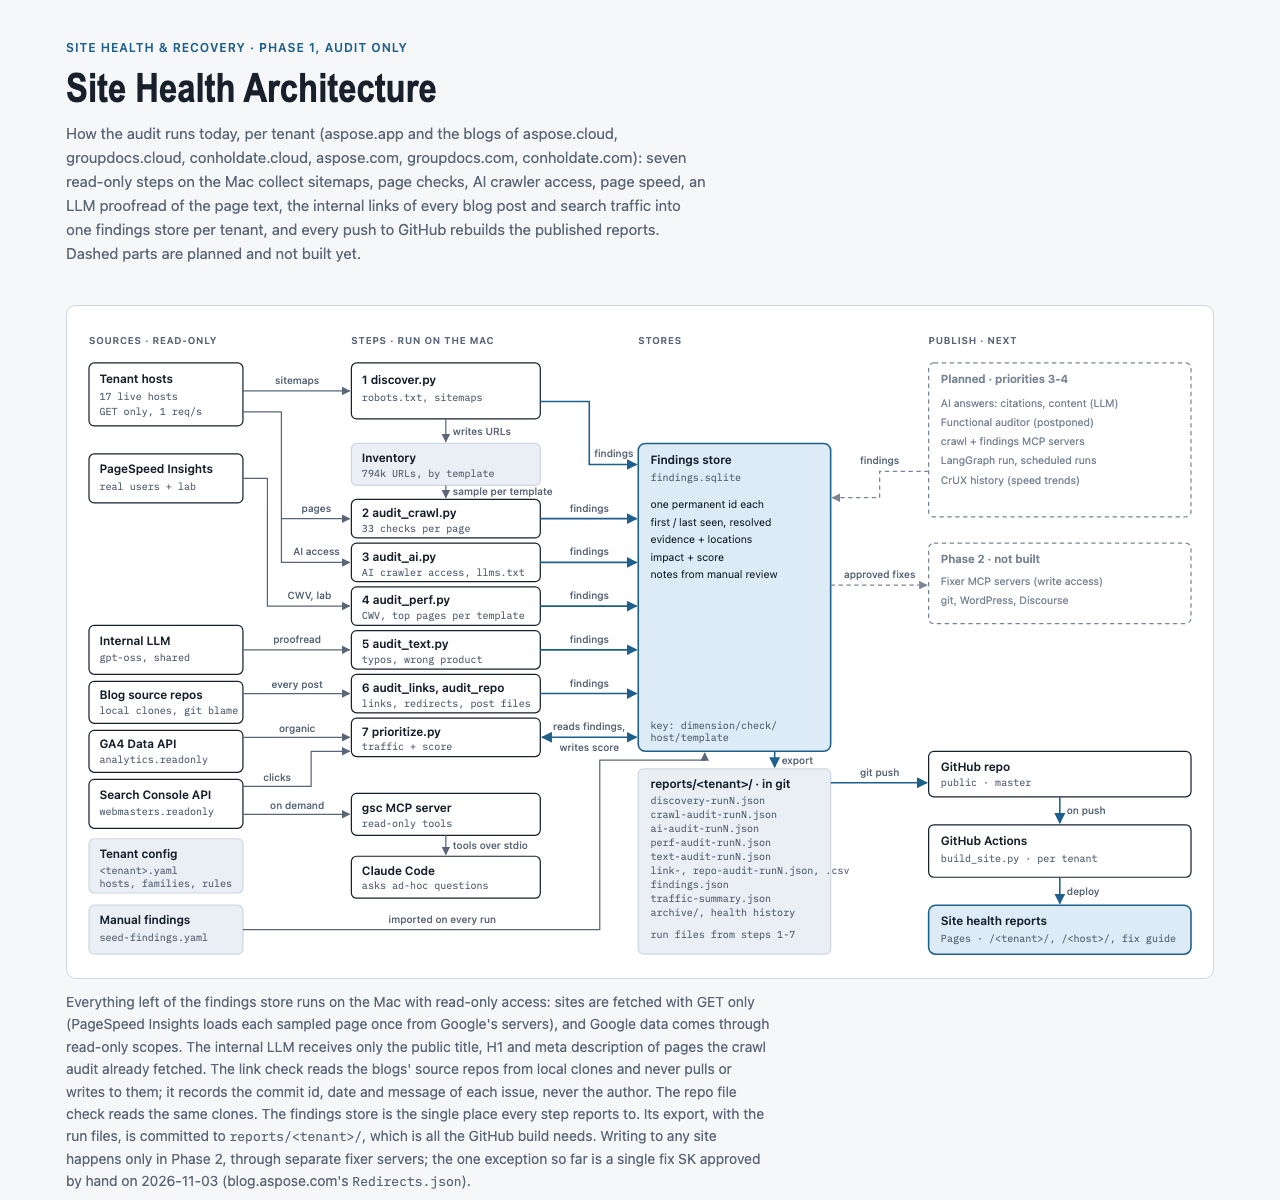
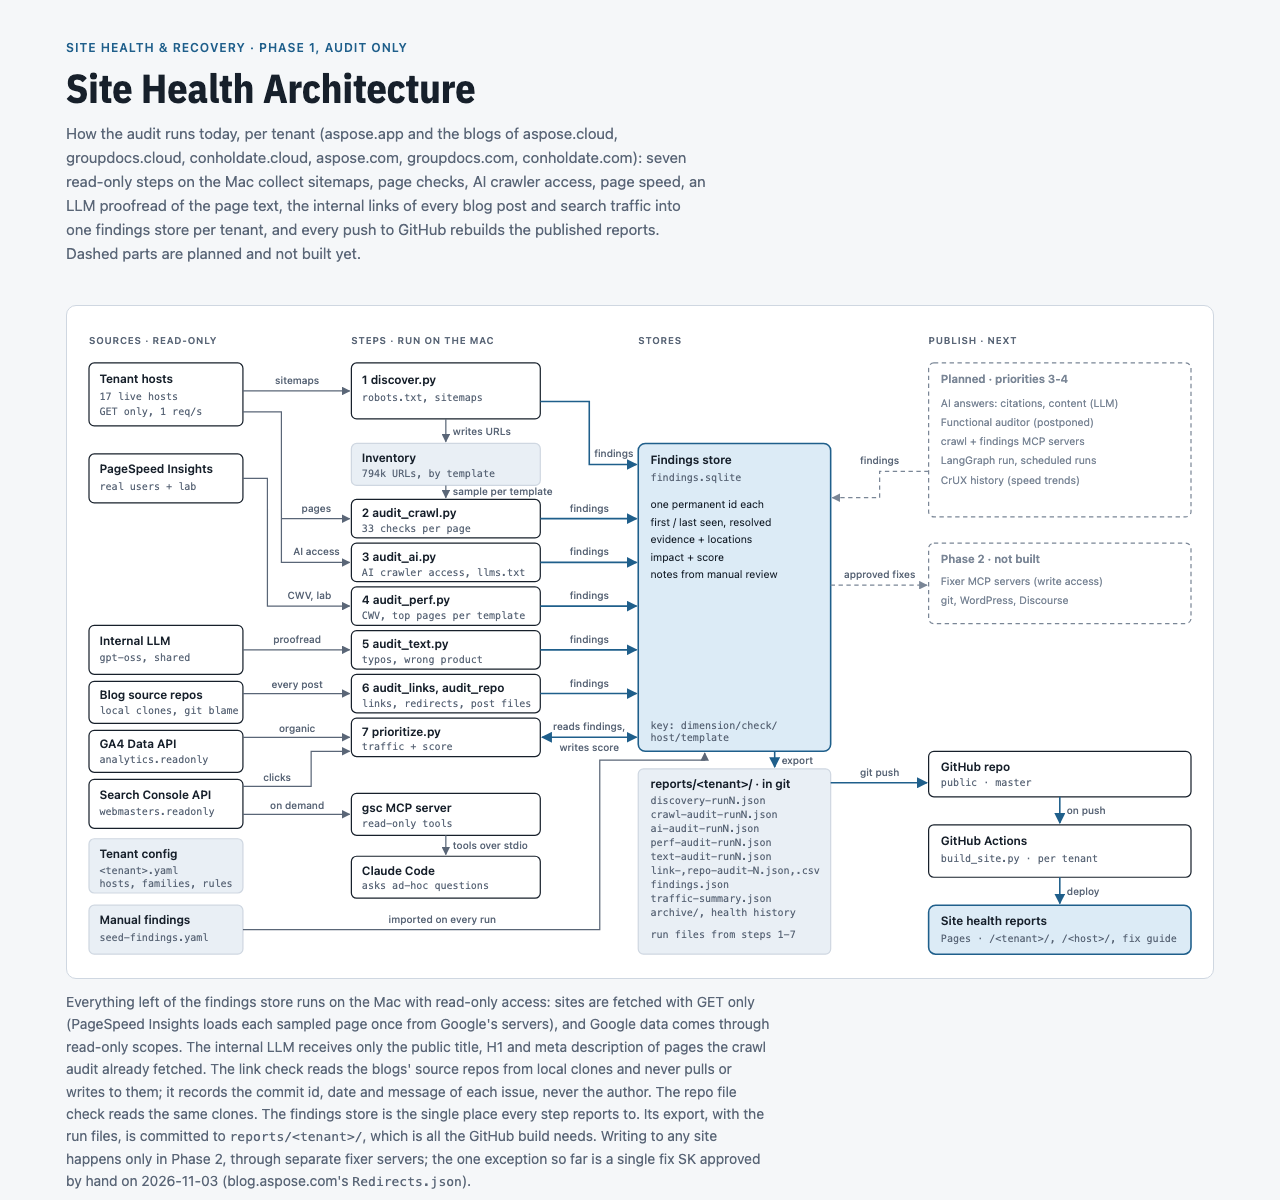
Architecture diagram: fit the file list line
Assisted by Claude Code

diff --git a/docs/architecture/site-health-architecture.html b/docs/architecture/site-health-architecture.html
@@ -200,7 +200,7 @@ td.step { font: 700 18px var(--display); color: var(--accent); width: 40px }
         <text class="d-s" x="658" y="592">ai-audit-runN.json</text>
         <text class="d-s" x="658" y="608">perf-audit-runN.json</text>
         <text class="d-s" x="658" y="624">text-audit-runN.json</text>
-        <text class="d-s" x="658" y="640">link-, repo-audit-runN.json, .csv</text>
+        <text class="d-s" x="658" y="640">link-,repo-audit-N.json,.csv</text>
         <text class="d-s" x="658" y="656">findings.json</text>
         <text class="d-s" x="658" y="672">traffic-summary.json</text>
         <text class="d-s" x="658" y="688">archive/, health history</text>
